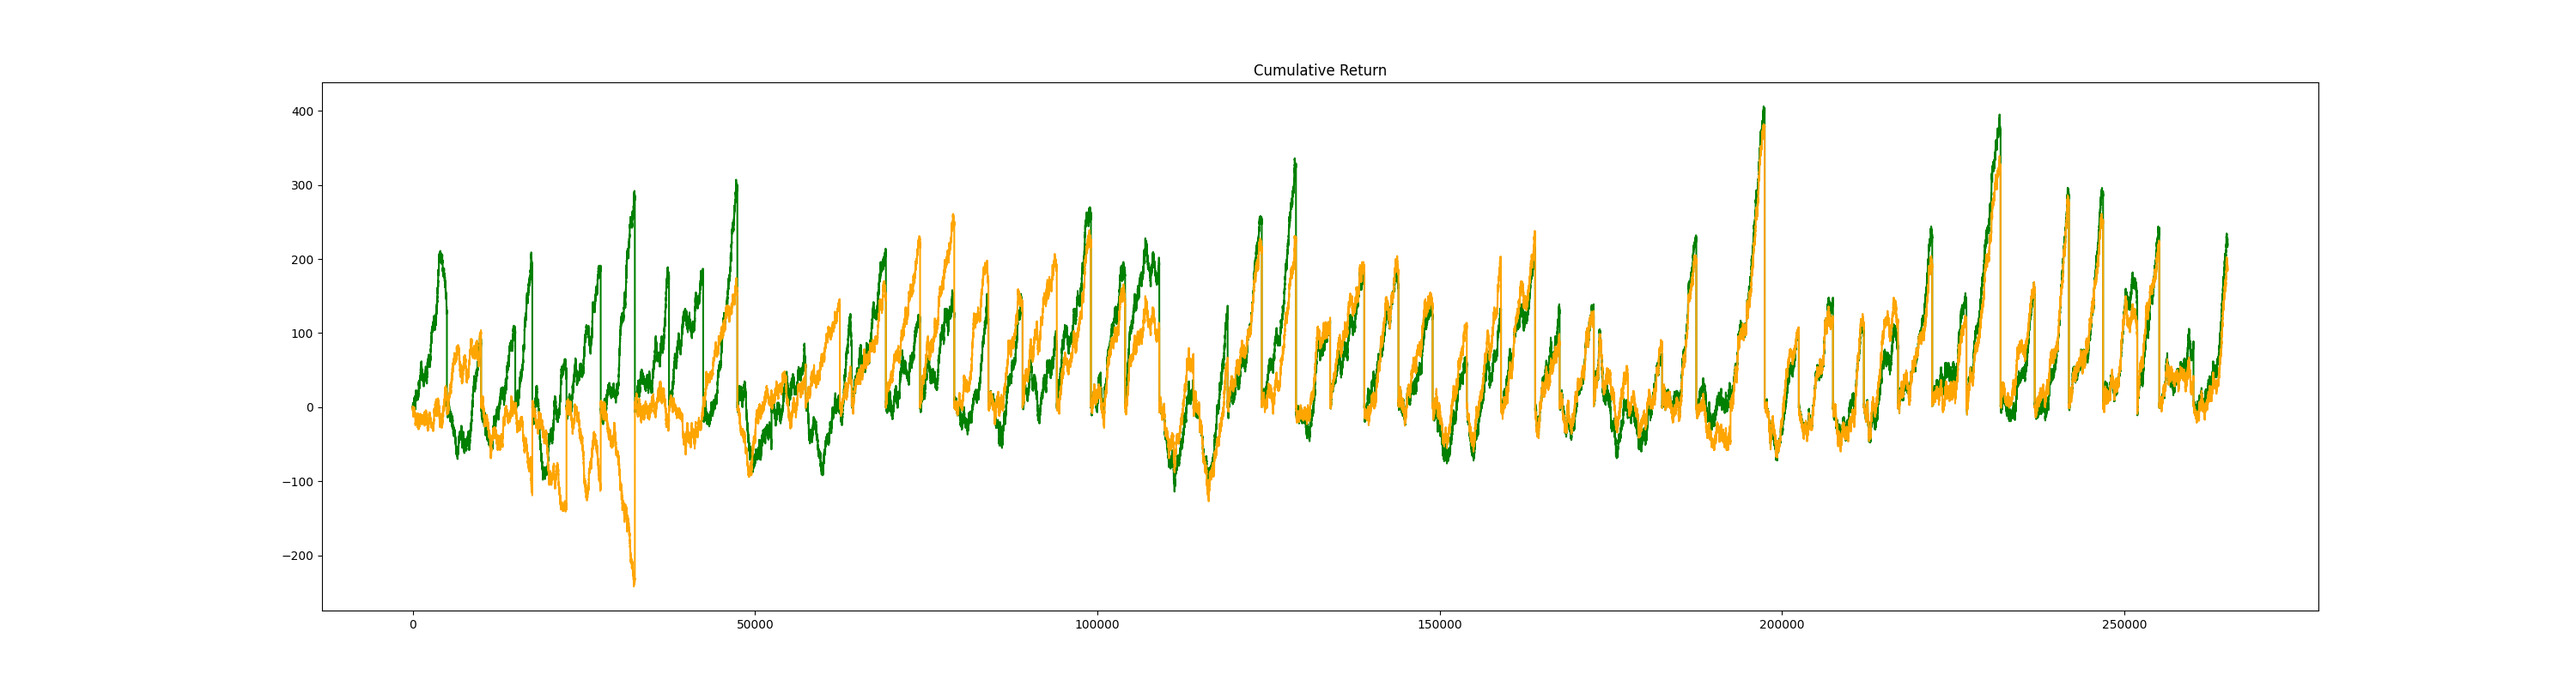
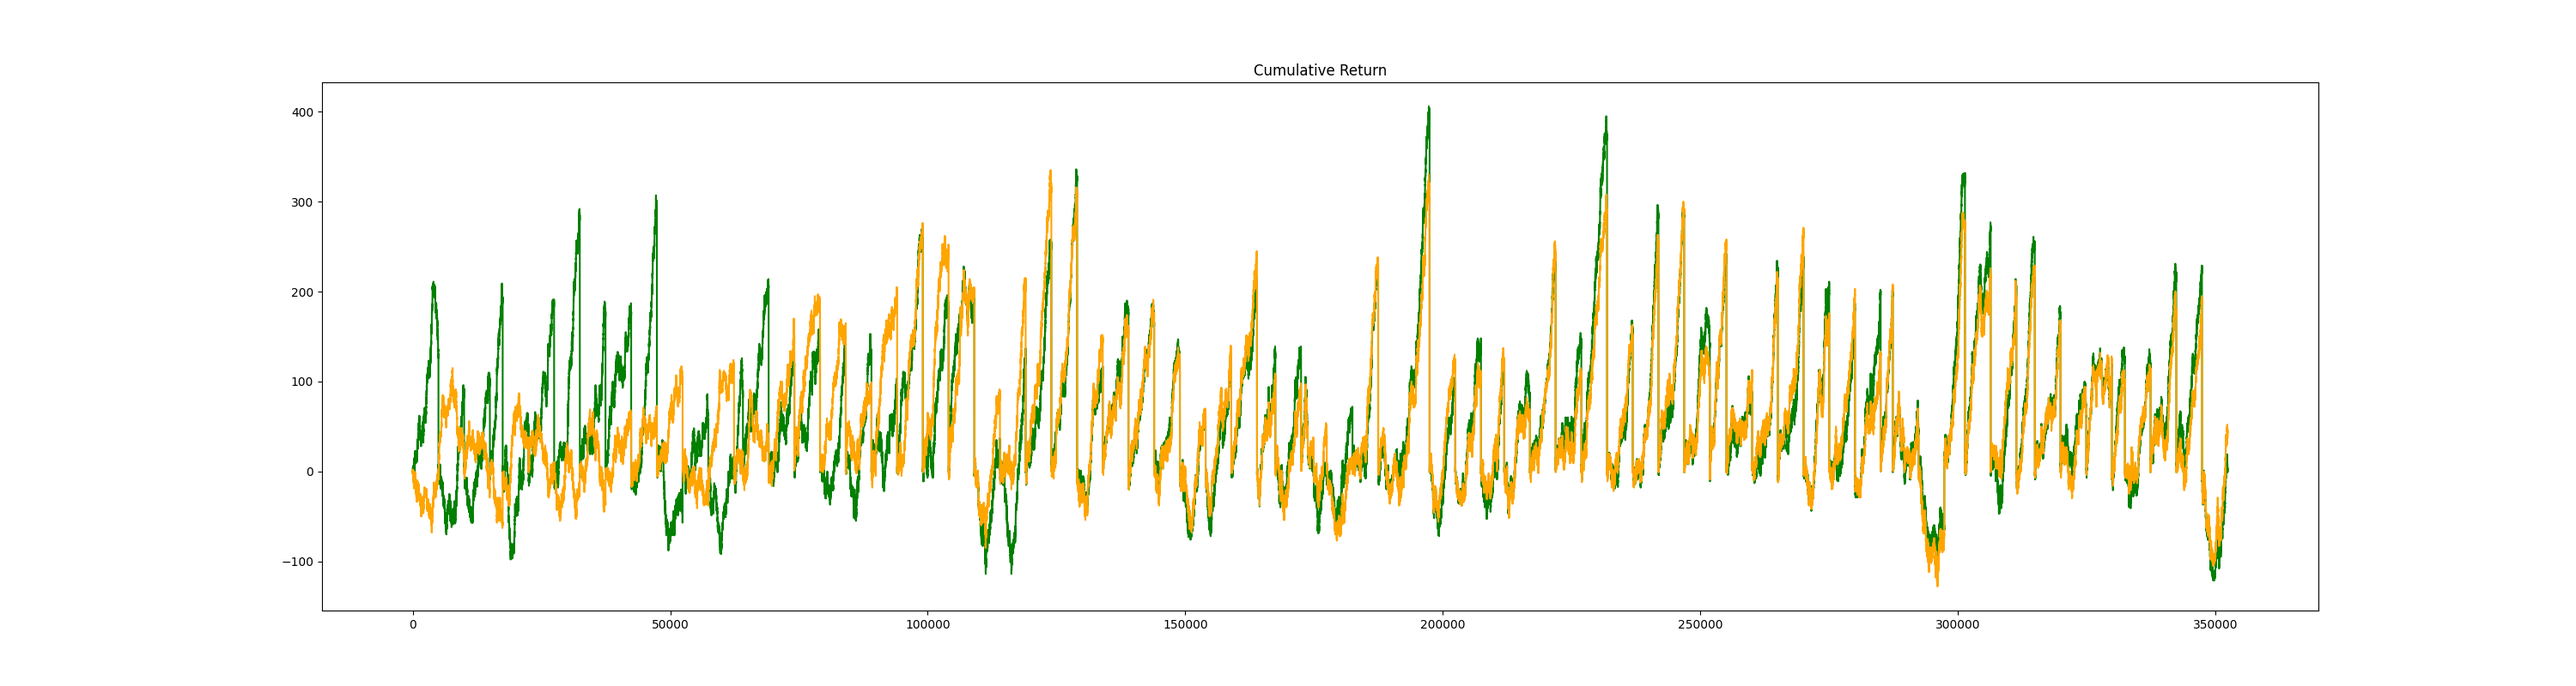
v8

Changed region(s): [[0.155, 0.25, 0.868, 0.8438]]

diff --git a/src/quant.cpp b/src/quant.cpp
@@ -87,7 +87,7 @@ void Quant::optimize() {
     double alpha_init = 0.00001;
     double alpha_min = 0.000001;
     double lambda = 0.05;
-    double gamma = 0.50;
+    double gamma = 0.80;
     unsigned int batch_size = 10;
     unsigned int memory_capacity = (unsigned int)(num_of_frames * 0.10);
 
